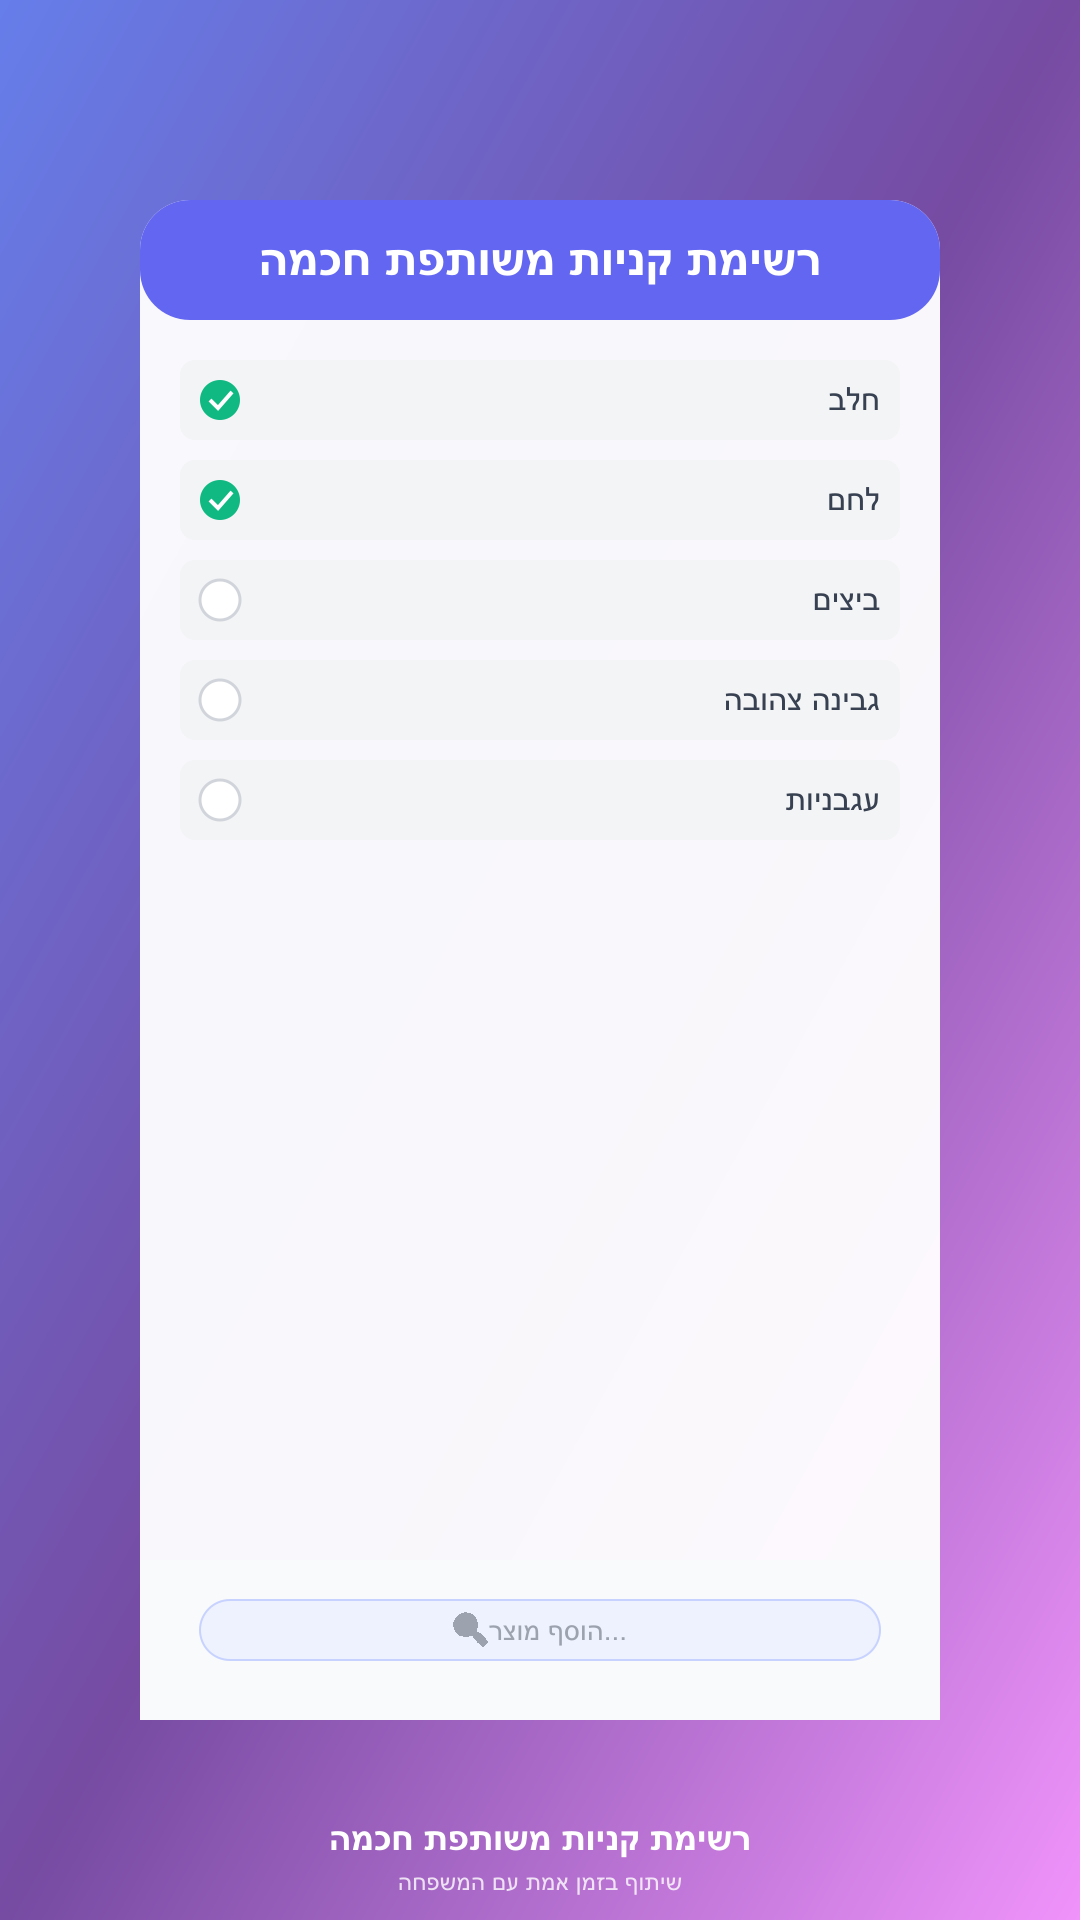
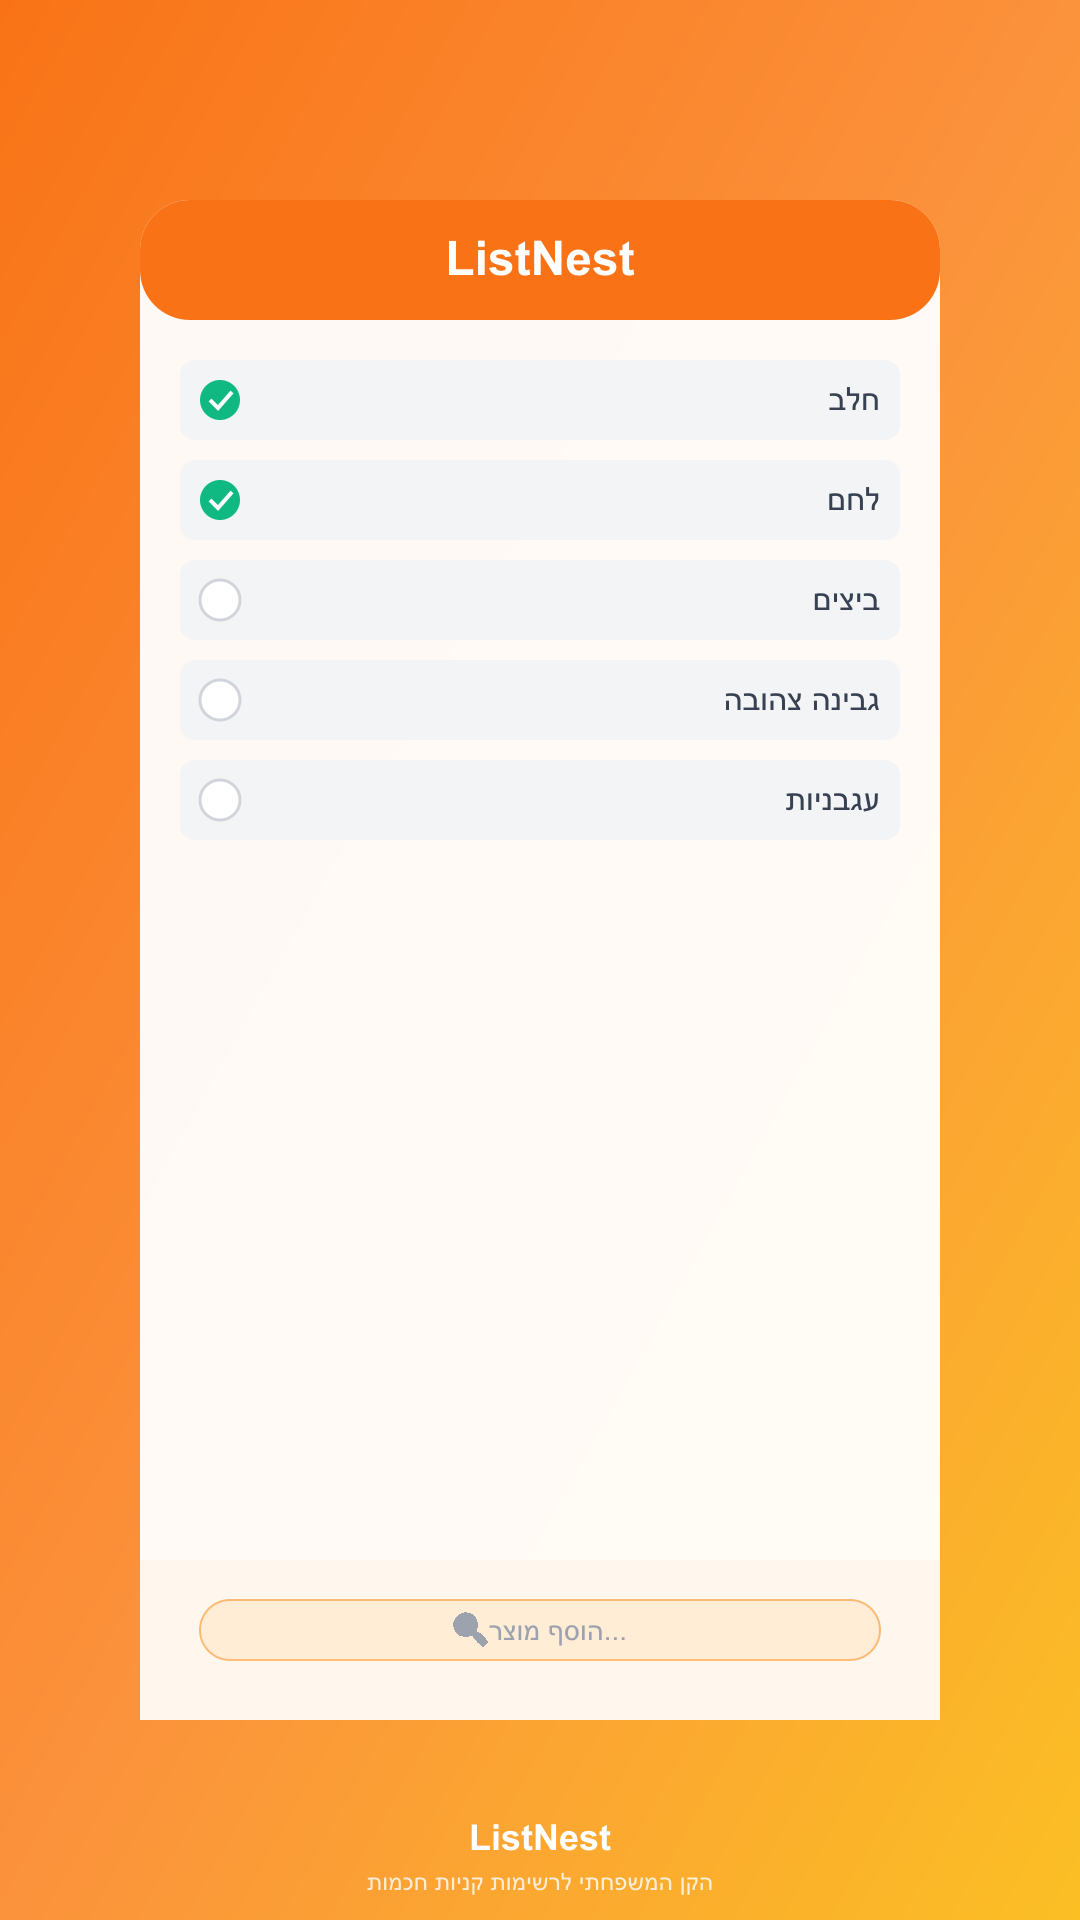
Rebrand app to ListNest with warm orange/yellow theme
- Update color scheme from purple to orange gradient (#F97316 → #FB923C → #FBBF24)
- Rename app to "ListNest" throughout all files
- Update tagline to "הקן המשפחתי לרשימות קניות חכמות"
- Regenerate all icons with new orange gradient and list/nest design
- Update screenshot with new branding for Google Play Store
- Update manifest.json with new name, colors, and description
- Remove old browser-based icon generator (generate-icons.html)

diff --git a/index.html b/index.html
@@ -11,14 +11,14 @@
         gtag('js', new Date());
         gtag('config', 'G-3TZHCPSK23');
     </script>
-    <meta name="theme-color" content="#4F46E5">
+    <meta name="theme-color" content="#F97316">
     <meta name="apple-mobile-web-app-capable" content="yes">
     <meta name="apple-mobile-web-app-status-bar-style" content="default">
-    <meta name="apple-mobile-web-app-title" content="רשימת קניות משותפת חכמה">
-    <meta name="description" content="אפליקציה חכמה לניהול רשימת קניות משפחתית עם שיתוף בזמן אמת">
+    <meta name="apple-mobile-web-app-title" content="ListNest">
+    <meta name="description" content="ListNest - הקן המשפחתי לרשימות קניות חכמות עם שיתוף בזמן אמת">
     <link rel="manifest" href="manifest.json">
     <link rel="apple-touch-icon" href="icons/icon-192x192.png">
-    <title>רשימת קניות משותפת חכמה - רשימת קניות חכמה</title>
+    <title>ListNest - רשימת קניות משפחתית חכמה</title>
     <link rel="preconnect" href="https://fonts.googleapis.com">
     <link rel="preconnect" href="https://fonts.gstatic.com" crossorigin>
     <link href="https://fonts.googleapis.com/css2?family=Heebo:wght@300;400;500;600;700;800&display=swap" rel="stylesheet">
@@ -33,19 +33,19 @@
         * { font-family: 'Heebo', sans-serif; }
         .glass { background: rgba(255, 255, 255, 0.9); backdrop-filter: blur(20px); -webkit-backdrop-filter: blur(20px); border: 1px solid rgba(255, 255, 255, 0.2); }
         .dark .glass { background: rgba(30, 41, 59, 0.9); border: 1px solid rgba(255, 255, 255, 0.1); }
-        .gradient-bg { background: linear-gradient(135deg, #667eea 0%, #764ba2 50%, #f093fb 100%); }
-        .dark .gradient-bg { background: linear-gradient(135deg, #1e1b4b 0%, #312e81 50%, #4c1d95 100%); }
-        .btn-gradient { background: linear-gradient(135deg, #6366f1 0%, #8b5cf6 100%); }
-        .btn-gradient:hover { background: linear-gradient(135deg, #4f46e5 0%, #7c3aed 100%); transform: translateY(-2px); box-shadow: 0 10px 40px rgba(99, 102, 241, 0.4); }
+        .gradient-bg { background: linear-gradient(135deg, #F97316 0%, #FB923C 50%, #FBBF24 100%); }
+        .dark .gradient-bg { background: linear-gradient(135deg, #7C2D12 0%, #9A3412 50%, #B45309 100%); }
+        .btn-gradient { background: linear-gradient(135deg, #F97316 0%, #FB923C 100%); }
+        .btn-gradient:hover { background: linear-gradient(135deg, #EA580C 0%, #F97316 100%); transform: translateY(-2px); box-shadow: 0 10px 40px rgba(249, 115, 22, 0.4); }
         .card-hover { transition: all 0.3s cubic-bezier(0.4, 0, 0.2, 1); }
         .card-hover:hover { transform: translateY(-4px) scale(1.02); }
         @keyframes float { 0%, 100% { transform: translateY(0px); } 50% { transform: translateY(-10px); } }
         .float { animation: float 3s ease-in-out infinite; }
         @keyframes shimmer { 0% { background-position: -200% 0; } 100% { background-position: 200% 0; } }
         .shimmer { background: linear-gradient(90deg, transparent, rgba(255,255,255,0.3), transparent); background-size: 200% 100%; animation: shimmer 2s infinite; }
-        .progress-animate { background: linear-gradient(90deg, #6366f1, #8b5cf6, #a855f7, #8b5cf6, #6366f1); background-size: 200% 100%; animation: shimmer 2s linear infinite; }
-        .text-gradient { background: linear-gradient(135deg, #6366f1 0%, #a855f7 100%); -webkit-background-clip: text; -webkit-text-fill-color: transparent; }
-        input:focus { outline: none; box-shadow: 0 0 0 3px rgba(99, 102, 241, 0.3); }
+        .progress-animate { background: linear-gradient(90deg, #F97316, #FB923C, #FBBF24, #FB923C, #F97316); background-size: 200% 100%; animation: shimmer 2s linear infinite; }
+        .text-gradient { background: linear-gradient(135deg, #F97316 0%, #FBBF24 100%); -webkit-background-clip: text; -webkit-text-fill-color: transparent; }
+        input:focus { outline: none; box-shadow: 0 0 0 3px rgba(249, 115, 22, 0.3); }
         .scrollbar-thin::-webkit-scrollbar { width: 6px; }
         .scrollbar-thin::-webkit-scrollbar-track { background: transparent; }
         .scrollbar-thin::-webkit-scrollbar-thumb { background: rgba(99, 102, 241, 0.3); border-radius: 3px; }
@@ -359,7 +359,7 @@
         const TRANSLATIONS = {
             he: {
                 // App name & general
-                appName: 'רשימת קניות משותפת חכמה',
+                appName: 'ListNest',
                 loading: 'טוען...',
                 save: 'שמור',
                 cancel: 'ביטול',
@@ -2364,7 +2364,7 @@
 
                         <div className="text-center mb-8 pt-4">
                             <div className="text-7xl mb-4 float">🛒</div>
-                            <h1 className="text-3xl font-bold text-gradient mb-2">רשימת קניות משותפת חכמה</h1>
+                            <h1 className="text-3xl font-bold text-gradient mb-2">ListNest</h1>
                             <p className="text-gray-500 dark:text-gray-400 text-sm">רשימת הקניות החכמה שלך</p>
                         </div>
 
@@ -3569,7 +3569,7 @@
                         user_name: user?.displayName || 'אנונימי'
                     };
                     // Using a simple mailto link as fallback (opens email client)
-                    const subject = encodeURIComponent(`[רשימת קניות משותפת חכמה] ${feedbackType === 'bug' ? 'דיווח על בעיה' : feedbackType === 'feature' ? 'בקשת פיצ\'ר' : 'משוב כללי'}`);
+                    const subject = encodeURIComponent(`[ListNest] ${feedbackType === 'bug' ? 'דיווח על בעיה' : feedbackType === 'feature' ? 'בקשת פיצ\'ר' : 'משוב כללי'}`);
                     const body = encodeURIComponent(`סוג: ${feedbackType}\n\nהודעה:\n${feedbackText}\n\n---\nמשתמש: ${user?.displayName || 'אנונימי'}\nאימייל: ${user?.email || 'לא זמין'}`);
                     window.open(`mailto:shopinglist1979@gmail.com?subject=${subject}&body=${body}`, '_blank');
                     setFeedbackSent(true);
@@ -4820,7 +4820,7 @@
                 endDate.setDate(endDate.getDate() + 1);
 
                 const title = encodeURIComponent(`🛒 קניות לפני ${holiday.name}`);
-                const details = encodeURIComponent(`${holiday.reminder}\n\nתזכורת מאפליקציית רשימת קניות משותפת חכמה`);
+                const details = encodeURIComponent(`${holiday.reminder}\n\nתזכורת מאפליקציית ListNest`);
                 const startStr = formatDateForGoogle(reminderDate);
                 const endStr = formatDateForGoogle(endDate);
 
@@ -4839,12 +4839,12 @@
 
                 const icsContent = `BEGIN:VCALENDAR
 VERSION:2.0
-PRODID:-//רשימת קניות משותפת חכמה//Shopping Reminder//HE
+PRODID:-//ListNest//Shopping Reminder//HE
 BEGIN:VEVENT
 DTSTART;VALUE=DATE:${formatICSDate(reminderDate)}
 DTEND;VALUE=DATE:${formatICSDate(endDate)}
 SUMMARY:🛒 קניות לפני ${holiday.name}
-DESCRIPTION:${holiday.reminder}\\n\\nתזכורת מאפליקציית רשימת קניות משותפת חכמה
+DESCRIPTION:${holiday.reminder}\\n\\nתזכורת מאפליקציית ListNest
 END:VEVENT
 END:VCALENDAR`;
 
@@ -5265,7 +5265,7 @@ END:VCALENDAR`;
             };
 
             return (
-                <div className="min-h-screen gradient-bg p-4 pb-20" role="application" aria-label="רשימת קניות משותפת חכמה - רשימת קניות">
+                <div className="min-h-screen gradient-bg p-4 pb-20" role="application" aria-label="ListNest - רשימת קניות">
                     {/* Main content landmark for skip link */}
                     <main id="main-content" role="main" aria-label="תוכן ראשי">
 
@@ -6581,7 +6581,7 @@ END:VCALENDAR`;
                                         <span className="text-3xl">🛒</span>
                                     </div>
                                     <div>
-                                        <h1 className="text-2xl font-bold text-gradient">רשימת קניות משותפת חכמה</h1>
+                                        <h1 className="text-2xl font-bold text-gradient">ListNest</h1>
                                         <div className="flex items-center gap-2 mt-1 flex-wrap">
                                             <button onClick={() => setShowFamilySettings(true)} className="px-3 py-1 rounded-full text-sm font-medium bg-gradient-to-r from-indigo-100 to-purple-100 text-indigo-700 dark:from-indigo-900/50 dark:to-purple-900/50 dark:text-indigo-300 hover:scale-105 transition-transform cursor-pointer">
                                                 👨👩👧👦 {family?.name}
@@ -7391,7 +7391,7 @@ END:VCALENDAR`;
                                     {/* Footer links */}
                                     <div className="flex justify-between pt-2 border-t border-gray-200 dark:border-gray-700">
                                         <button onClick={() => setShowFeedback(true)} className="text-blue-500 hover:underline text-sm">צור קשר</button>
-                                        <button onClick={() => alert('אפליקציית רשימת קניות משותפת חכמה מחויבת לנגישות מלאה לכל המשתמשים.\n\nהאפליקציה תוכננה בהתאם לתקן הישראלי ת"י 5568 ולהנחיות WCAG 2.1 ברמה AA.\n\nלשאלות בנושא נגישות ניתן לפנות אלינו.')} className="text-blue-500 hover:underline text-sm">הצהרת נגישות</button>
+                                        <button onClick={() => alert('אפליקציית ListNest מחויבת לנגישות מלאה לכל המשתמשים.\n\nהאפליקציה תוכננה בהתאם לתקן הישראלי ת"י 5568 ולהנחיות WCAG 2.1 ברמה AA.\n\nלשאלות בנושא נגישות ניתן לפנות אלינו.')} className="text-blue-500 hover:underline text-sm">הצהרת נגישות</button>
                                     </div>
                                 </div>
                             </div>
@@ -7516,7 +7516,7 @@ END:VCALENDAR`;
                                 {onboardingStep === 0 && (
                                     <div className="p-6 text-center">
                                         <div className="text-6xl mb-4">🛒</div>
-                                        <h2 className="text-2xl font-bold text-gray-800 dark:text-white mb-2">ברוכים הבאים ל-רשימת קניות משותפת חכמה!</h2>
+                                        <h2 className="text-2xl font-bold text-gray-800 dark:text-white mb-2">ברוכים הבאים ל-ListNest!</h2>
                                         <p className="text-gray-600 dark:text-gray-300 mb-6">רשימת קניות חכמה לכל המשפחה</p>
                                         <button onClick={() => setOnboardingStep(1)} className="w-full py-3 bg-gradient-to-r from-indigo-500 to-purple-500 text-white rounded-xl font-bold">
                                             בואו נתחיל! →

diff --git a/generate-icons.js b/generate-icons.js
@@ -5,7 +5,7 @@ const path = require('path');
 const sizes = [72, 96, 128, 144, 152, 192, 384, 512];
 const maskableSizes = [192, 512];
 
-// SVG icon template - shopping cart with checkmark
+// SVG icon template - ListNest brand (nest + list concept)
 function createIconSVG(size, maskable = false) {
     const padding = maskable ? size * 0.1 : 0;
     const innerSize = size - (padding * 2);
@@ -15,31 +15,50 @@ function createIconSVG(size, maskable = false) {
     return `<svg width="${size}" height="${size}" xmlns="http://www.w3.org/2000/svg">
   <defs>
     <linearGradient id="grad" x1="0%" y1="0%" x2="100%" y2="100%">
-      <stop offset="0%" style="stop-color:#6366F1"/>
-      <stop offset="100%" style="stop-color:#8B5CF6"/>
+      <stop offset="0%" style="stop-color:#F97316"/>
+      <stop offset="50%" style="stop-color:#FB923C"/>
+      <stop offset="100%" style="stop-color:#FBBF24"/>
     </linearGradient>
     <clipPath id="rounded">
-      <rect x="0" y="0" width="${size}" height="${size}" rx="${maskable ? 0 : size * 0.2}" ry="${maskable ? 0 : size * 0.2}"/>
+      <rect x="0" y="0" width="${size}" height="${size}" rx="${maskable ? 0 : size * 0.22}" ry="${maskable ? 0 : size * 0.22}"/>
     </clipPath>
   </defs>
 
   <!-- Background -->
   <rect width="${size}" height="${size}" fill="url(#grad)" clip-path="url(#rounded)"/>
 
-  <!-- Shopping Cart -->
-  <g transform="translate(${offset + innerSize * 0.15}, ${offset + innerSize * 0.15})" stroke="white" stroke-width="${scale * 5}" stroke-linecap="round" stroke-linejoin="round" fill="none">
-    <!-- Cart handle -->
-    <path d="M${10 * scale} ${20 * scale} L${20 * scale} ${20 * scale} L${25 * scale} ${48 * scale} L${58 * scale} ${48 * scale}"/>
+  <!-- Nest shape (curved lines) -->
+  <g transform="translate(${offset + innerSize * 0.1}, ${offset + innerSize * 0.15})" fill="none" stroke="rgba(255,255,255,0.3)" stroke-width="${scale * 3}">
+    <path d="M${10 * scale} ${55 * scale} Q${40 * scale} ${75 * scale} ${70 * scale} ${55 * scale}"/>
+    <path d="M${15 * scale} ${48 * scale} Q${40 * scale} ${65 * scale} ${65 * scale} ${48 * scale}"/>
+  </g>
 
-    <!-- Cart body -->
-    <path d="M${25 * scale} ${32 * scale} L${58 * scale} ${32 * scale} L${54 * scale} ${58 * scale} L${29 * scale} ${58 * scale} Z" fill="rgba(255,255,255,0.2)"/>
+  <!-- Shopping list icon -->
+  <g transform="translate(${offset + innerSize * 0.22}, ${offset + innerSize * 0.15})" fill="white">
+    <!-- List paper -->
+    <rect x="0" y="0" width="${56 * scale}" height="${65 * scale}" rx="${6 * scale}" fill="white" opacity="0.95"/>
 
-    <!-- Wheels -->
-    <circle cx="${33 * scale}" cy="${68 * scale}" r="${5 * scale}" fill="white" stroke="none"/>
-    <circle cx="${50 * scale}" cy="${68 * scale}" r="${5 * scale}" fill="white" stroke="none"/>
+    <!-- List lines with checkboxes -->
+    <g fill="none" stroke="#F97316" stroke-width="${scale * 2.5}">
+      <!-- Checkbox 1 - checked -->
+      <rect x="${6 * scale}" y="${10 * scale}" width="${10 * scale}" height="${10 * scale}" rx="${2 * scale}"/>
+      <path d="M${8 * scale} ${15 * scale} L${11 * scale} ${18 * scale} L${18 * scale} ${11 * scale}" stroke="#22C55E" stroke-width="${scale * 3}"/>
+      <line x1="${22 * scale}" y1="${15 * scale}" x2="${48 * scale}" y2="${15 * scale}" stroke="#9CA3AF" stroke-width="${scale * 2}"/>
 
-    <!-- Checkmark -->
-    <path d="M${38 * scale} ${42 * scale} L${45 * scale} ${50 * scale} L${58 * scale} ${35 * scale}" stroke="#10B981" stroke-width="${scale * 6}"/>
+      <!-- Checkbox 2 - checked -->
+      <rect x="${6 * scale}" y="${26 * scale}" width="${10 * scale}" height="${10 * scale}" rx="${2 * scale}"/>
+      <path d="M${8 * scale} ${31 * scale} L${11 * scale} ${34 * scale} L${18 * scale} ${27 * scale}" stroke="#22C55E" stroke-width="${scale * 3}"/>
+      <line x1="${22 * scale}" y1="${31 * scale}" x2="${42 * scale}" y2="${31 * scale}" stroke="#9CA3AF" stroke-width="${scale * 2}"/>
+
+      <!-- Checkbox 3 - unchecked -->
+      <rect x="${6 * scale}" y="${42 * scale}" width="${10 * scale}" height="${10 * scale}" rx="${2 * scale}"/>
+      <line x1="${22 * scale}" y1="${47 * scale}" x2="${45 * scale}" y2="${47 * scale}" stroke="#374151" stroke-width="${scale * 2}"/>
+    </g>
+  </g>
+
+  <!-- Family hearts/warmth indicator -->
+  <g transform="translate(${offset + innerSize * 0.65}, ${offset + innerSize * 0.55})">
+    <text x="0" y="${15 * scale}" font-size="${18 * scale}" fill="white">🏠</text>
   </g>
 </svg>`;
 }
@@ -52,7 +71,7 @@ async function generateIcons() {
         fs.mkdirSync(iconsDir, { recursive: true });
     }
 
-    console.log('Generating icons...\n');
+    console.log('Generating ListNest icons...\n');
 
     // Generate regular icons
     for (const size of sizes) {
@@ -80,7 +99,7 @@ async function generateIcons() {
         console.log(`Created: ${filename}`);
     }
 
-    console.log('\nAll icons generated successfully!');
+    console.log('\nAll ListNest icons generated successfully!');
 }
 
 generateIcons().catch(console.error);

diff --git a/generate-screenshot.js b/generate-screenshot.js
@@ -4,9 +4,9 @@ const path = require('path');
 const screenshotSVG = `<svg width="1080" height="1920" xmlns="http://www.w3.org/2000/svg">
   <defs>
     <linearGradient id="bg" x1="0%" y1="0%" x2="100%" y2="100%">
-      <stop offset="0%" style="stop-color:#667eea"/>
-      <stop offset="50%" style="stop-color:#764ba2"/>
-      <stop offset="100%" style="stop-color:#f093fb"/>
+      <stop offset="0%" style="stop-color:#F97316"/>
+      <stop offset="50%" style="stop-color:#FB923C"/>
+      <stop offset="100%" style="stop-color:#FBBF24"/>
     </linearGradient>
   </defs>
 
@@ -17,8 +17,8 @@ const screenshotSVG = `<svg width="1080" height="1920" xmlns="http://www.w3.org/
   <rect x="140" y="200" width="800" height="1520" rx="50" fill="white" opacity="0.95"/>
 
   <!-- Header -->
-  <rect x="140" y="200" width="800" height="120" rx="50" fill="#6366F1"/>
-  <text x="540" y="275" font-family="Arial" font-size="48" fill="white" text-anchor="middle" font-weight="bold">רשימת קניות משותפת חכמה</text>
+  <rect x="140" y="200" width="800" height="120" rx="50" fill="#F97316"/>
+  <text x="540" y="275" font-family="Arial" font-size="48" fill="white" text-anchor="middle" font-weight="bold">ListNest</text>
 
   <!-- Shopping list items -->
   <g transform="translate(180, 360)">
@@ -51,13 +51,13 @@ const screenshotSVG = `<svg width="1080" height="1920" xmlns="http://www.w3.org/
   </g>
 
   <!-- Bottom bar -->
-  <rect x="140" y="1560" width="800" height="160" rx="0" fill="#F9FAFB"/>
-  <rect x="200" y="1600" width="680" height="60" rx="30" fill="#EEF2FF" stroke="#C7D2FE" stroke-width="2"/>
+  <rect x="140" y="1560" width="800" height="160" rx="0" fill="#FFF7ED"/>
+  <rect x="200" y="1600" width="680" height="60" rx="30" fill="#FFEDD5" stroke="#FDBA74" stroke-width="2"/>
   <text x="540" y="1640" font-family="Arial" font-size="28" fill="#9CA3AF" text-anchor="middle">🔍 הוסף מוצר...</text>
 
   <!-- App title at bottom -->
-  <text x="540" y="1850" font-family="Arial" font-size="36" fill="white" text-anchor="middle" font-weight="bold">רשימת קניות משותפת חכמה</text>
-  <text x="540" y="1890" font-family="Arial" font-size="24" fill="rgba(255,255,255,0.8)" text-anchor="middle">שיתוף בזמן אמת עם המשפחה</text>
+  <text x="540" y="1850" font-family="Arial" font-size="36" fill="white" text-anchor="middle" font-weight="bold">ListNest</text>
+  <text x="540" y="1890" font-family="Arial" font-size="24" fill="rgba(255,255,255,0.8)" text-anchor="middle">הקן המשפחתי לרשימות קניות חכמות</text>
 </svg>`;
 
 async function generateScreenshot() {
